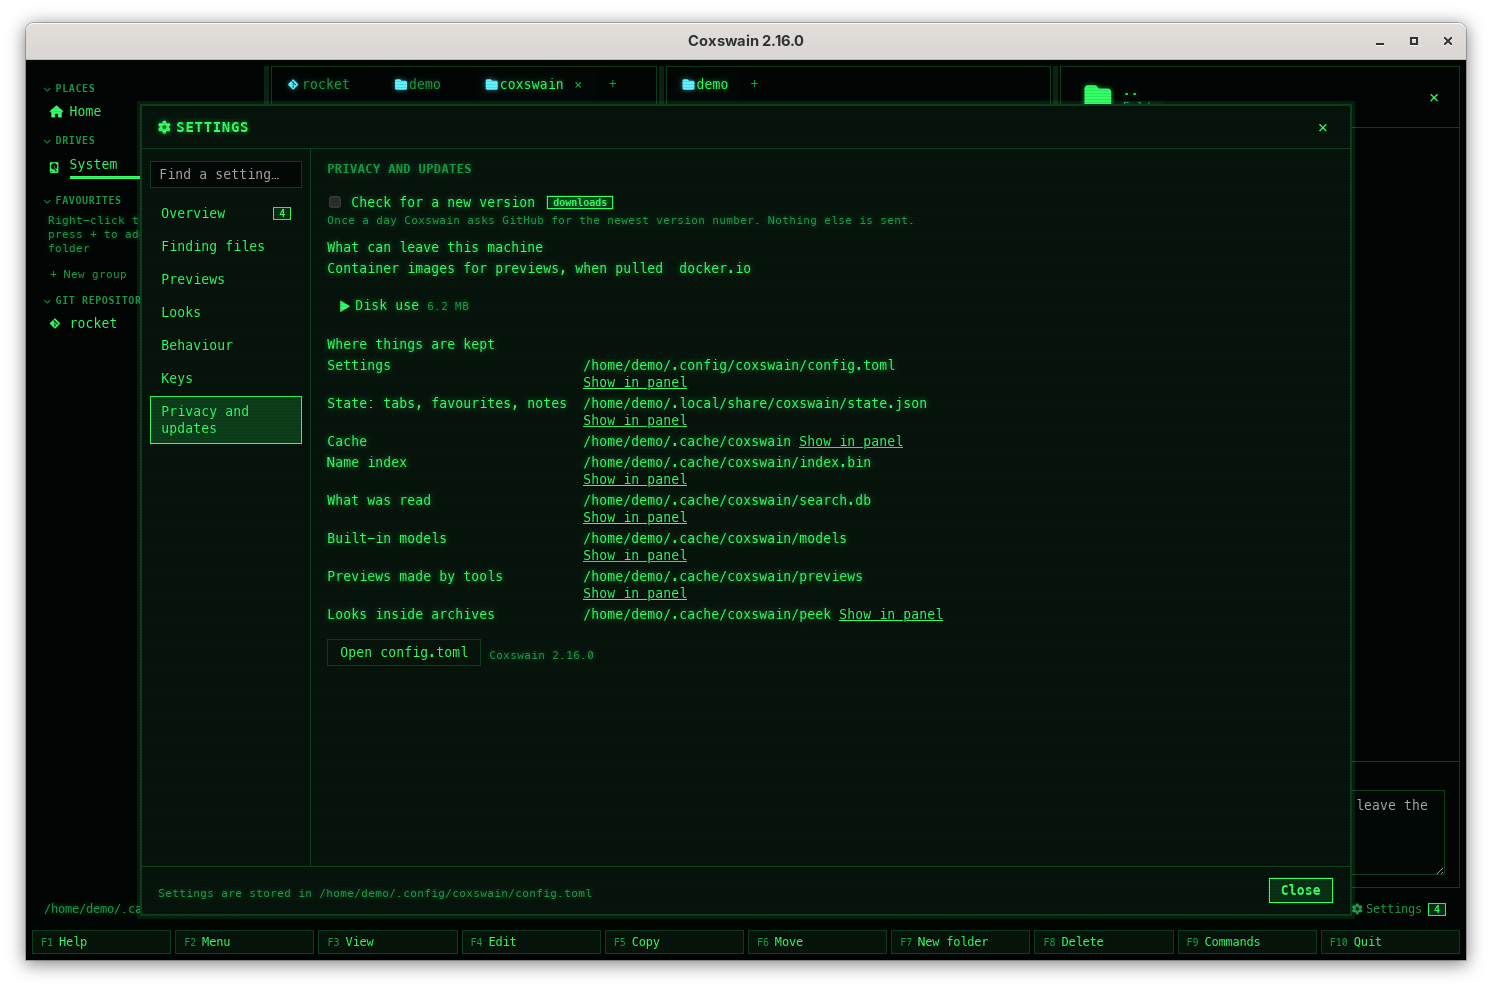
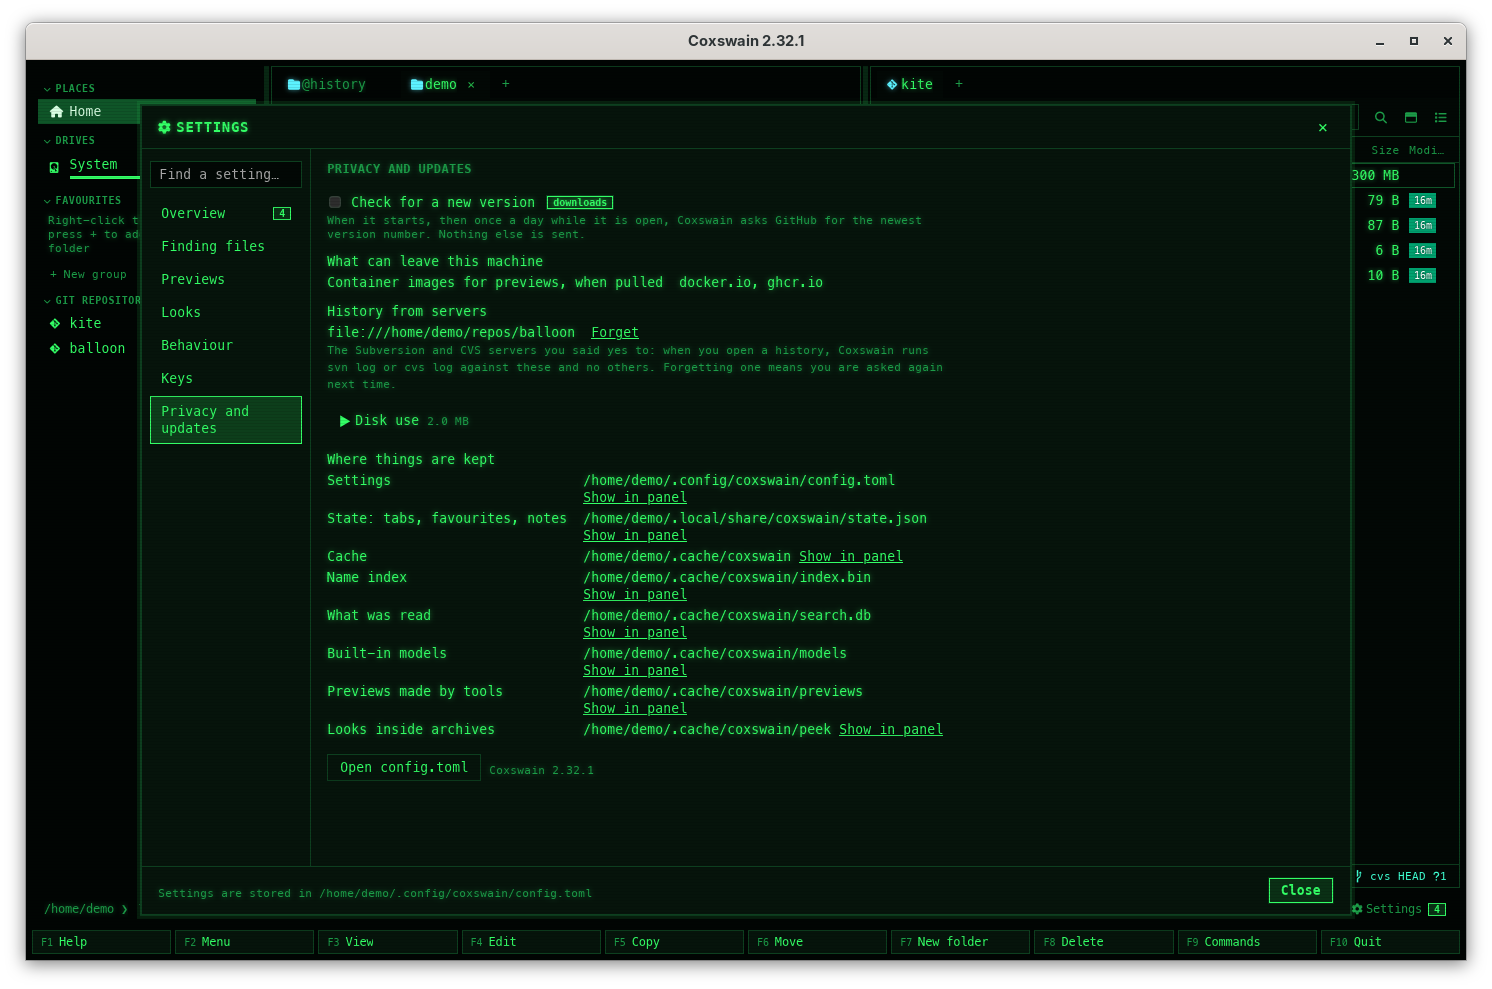
Pictures of the Subversion and CVS history question and lists, and Settings → Privacy

diff --git a/docs/panels/cvs.md b/docs/panels/cvs.md
@@ -54,6 +54,8 @@ copy first asks, once per server, as for [Subversion](subversion.md#history-from
 (**Read the history** or **Cancel**), the terminal app a box (**Enter** or **Y** reads, **Esc** or
 **N** cancels).
 
+![The terminal app in Classic blue in ~/projects/kite, a CVS working copy, with the box Read the history from the server?: CVS keeps this history on its server, /home/demo/repos/cvsroot, and the key line Enter Read the history · Esc Cancel](../screenshots/tui-cvs-ask.png)
+
 With yes, Coxswain runs `cvs -f -d <root> log -N` in the folder (`-f`: your `~/.cvsrc` is not
 read; `-d`: the root of the folder asked about, for every folder below too, whatever their own
 `CVS/Root` says) and shows the result as a history:
@@ -71,6 +73,8 @@ read; `-d`: the root of the folder asked about, for every folder below too, what
 - **Slow or gone:** a server that does not answer within 30 seconds is left, and the status line
   says so. Without `cvs` installed, a notice says to install it.
 - Opening an entry says its files are on the server: the files at a commit are not read.
+
+![The terminal app's kite/@history after the yes: 931c59a Spar a little longer, f5ba70a Longer spar, red sail, e2921d6 Initial revision and 927fee3 Start the kite, newest first](../screenshots/tui-cvs-history.png)
 
 ## Branches, update and commit
 

diff --git a/docs/panels/subversion.md b/docs/panels/subversion.md
@@ -60,10 +60,14 @@ a folder or `..` in a working copy first asks, once per server:
 | Desktop app | A dialog with **Read the history** and **Cancel**; **Enter** reads, **Esc** cancels |
 | Terminal app | The same text in a box; **Enter** or **Y** reads, **Esc** or **N** cancels |
 
+![The desktop app (Cyber) in ~/projects/balloon, a Subversion working copy, with the question Read the history from the server? over the panes: Subversion keeps this history on its server, file:///home/demo/repos/balloon, and the buttons Read the history and Cancel](../screenshots/svn-ask.png)
+
 With yes, the pane shows the history as for git: one entry per revision, named `r1234` and the
 first line of its message, newest first, with its date in *Modified* and its author in *Last
 commit* (desktop app) or on the info line (terminal app). A file's history follows its copies
 and renames, as `svn log` does. At most 2000 revisions are listed.
+
+![The desktop app's balloon/@history after the yes: r4 Bigger envelope, r3 Add the burner, r2 Start the balloon and r1 Make the layout, newest first, and the line svn r4 trunk in the footer](../screenshots/svn-history.png)
 
 - **What is sent:** `svn log --xml --non-interactive` on the working copy, which asks the
   repository the working copy names in `.svn/wc.db` and nothing else. Your own Subversion

diff --git a/docs/customise/settings.md b/docs/customise/settings.md
@@ -231,7 +231,7 @@ active pane, made first when it is not there yet ([Scripts](../commands/scripts.
 
 ## Privacy and updates
 
-![Settings at Privacy and updates: Check for a new version, What can leave this machine, the closed heading Disk use 6.2 MB, Where things are kept with a Show in panel link for each path, Open config.toml and the version](../screenshots/settings-privacy.png)
+![Settings at Privacy and updates: Check for a new version, What can leave this machine, History from servers with file:///home/demo/repos/balloon and its Forget link, the closed heading Disk use 2.0 MB, Where things are kept with a Show in panel link for each path, Open config.toml and the version](../screenshots/settings-privacy.png)
 
 | Part | Does | Key |
 |---|---|---|
